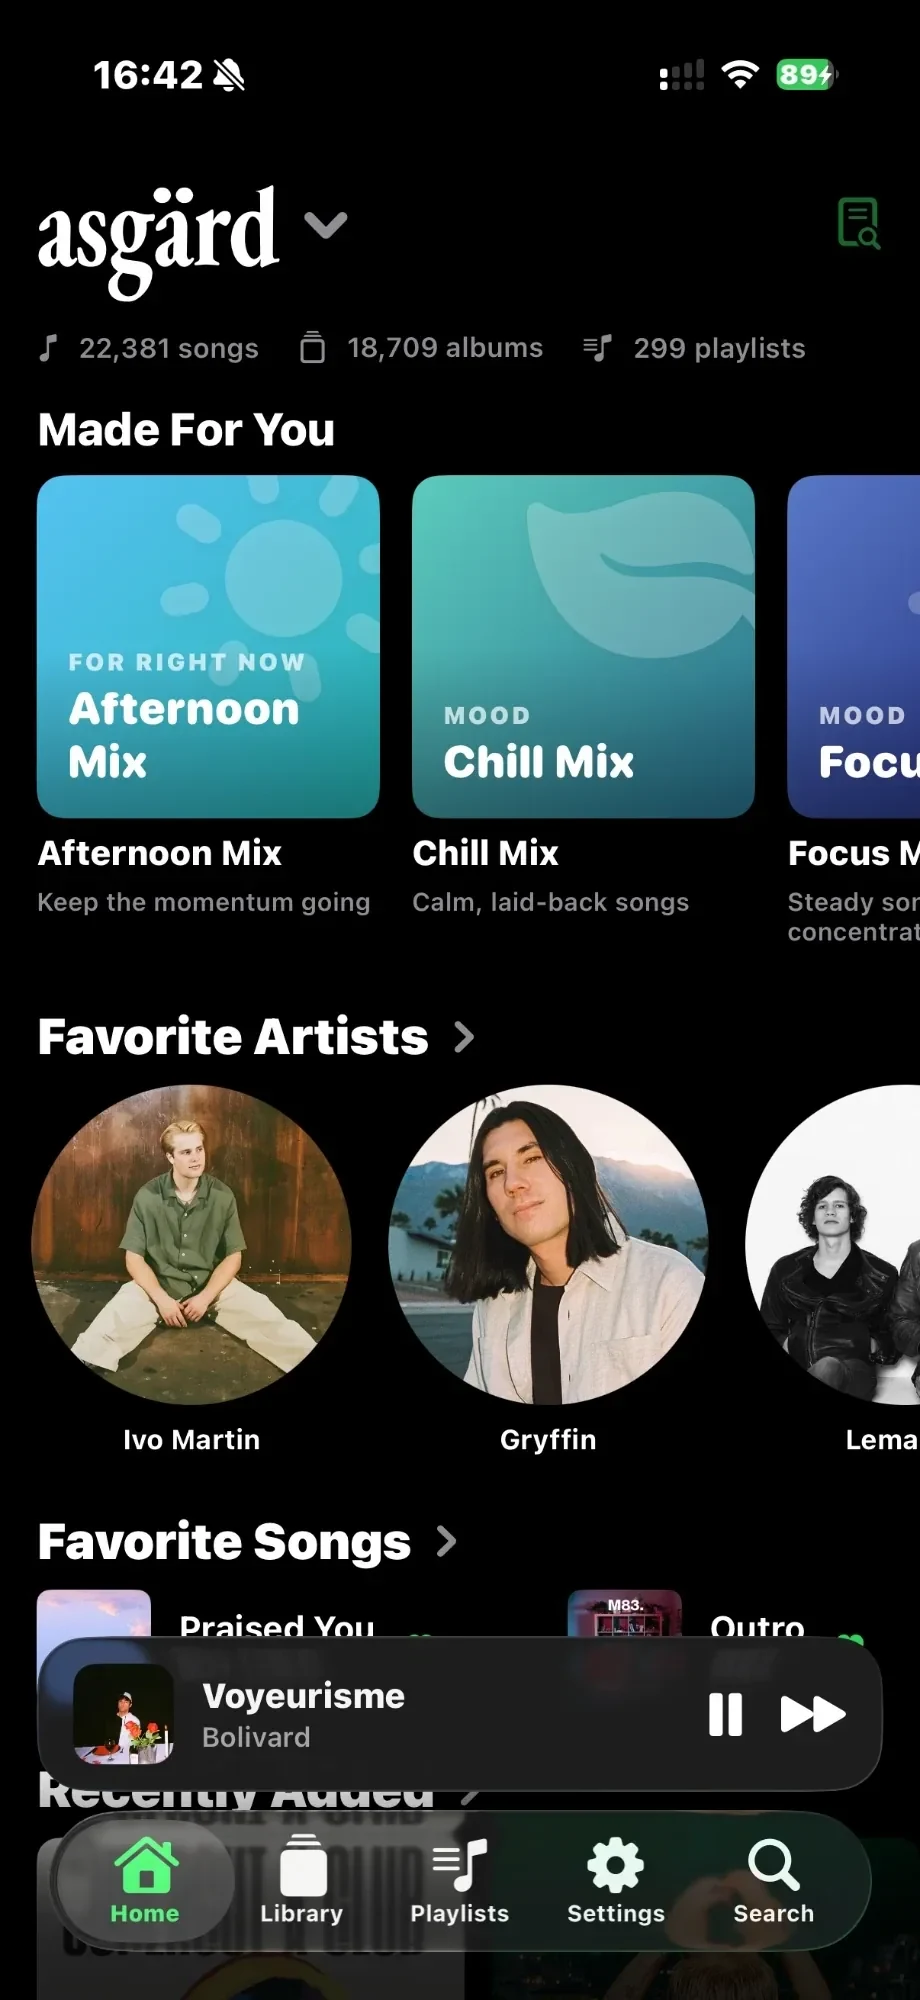
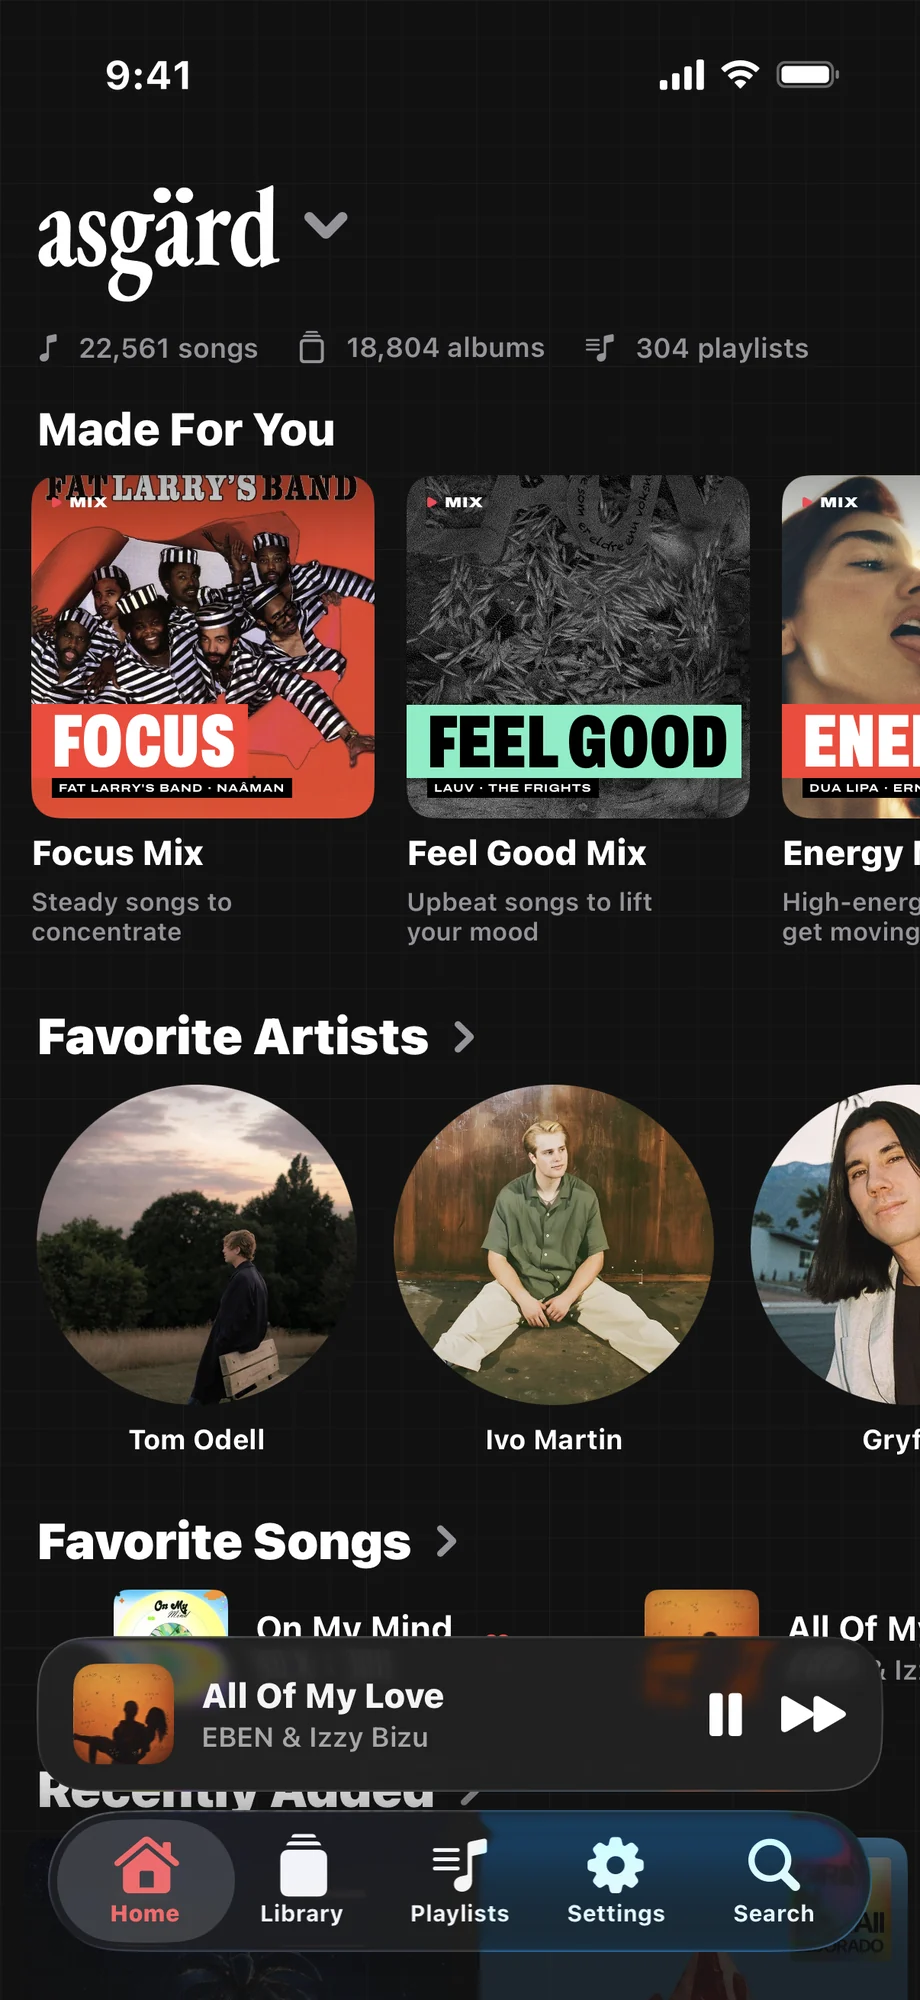
docs: the README, roadmap and privacy policy describe the app as it is now — playlist filters, the equalizer curve, Radar previews, Siri favourites, CarPlay's Now Playing and the sideload build's Get It — with new Home and Now Playing screenshots

diff --git a/site/privacy.html b/site/privacy.html
@@ -59,7 +59,7 @@
 <main>
   <header>
     <h1>Aura Privacy Policy</h1>
-    <p class="muted"><strong>Last updated:</strong> 2026-09-25 &nbsp;·&nbsp; <strong>Effective:</strong> same as above</p>
+    <p class="muted"><strong>Last updated:</strong> 2026-09-26 &nbsp;·&nbsp; <strong>Effective:</strong> same as above</p>
   </header>
 
   <p>Aura (“the app”) is a music playback client for Subsonic-API-compatible servers (Navidrome, Airsonic, Gonic, and others) that <strong>you</strong> host or have legitimate access to. This policy explains what information Aura handles and what it does not.</p>
@@ -87,7 +87,7 @@
   <ul>
     <li>Server URL(s) and usernames</li>
     <li>UI preferences (theme, accent color, home dashboard layout, etc.)</li>
-    <li>Playback preferences (EQ curve, crossfade, transcoding)</li>
+    <li>Playback preferences (EQ curve, ReplayGain, transcoding)</li>
     <li>Last-played state (queue, current track, position)</li>
     <li>Download quality settings</li>
   </ul>
@@ -120,7 +120,7 @@
     <li><strong>Deezer API</strong> — <code>api.deezer.com</code></li>
   </ul>
   <p>The share sheet can also offer a song.link address, which Aura builds from the Apple track ID it found; Aura does not contact song.link itself.</p>
-  <p>This lookup runs when a song starts playing (so the links are ready instantly) and the result is cached. No account, device identifier, or audio is sent — only the track name to find matching links — and none of it goes to a developer-owned server.</p>
+  <p>This lookup runs when a track appears in Now Playing (so the links are ready instantly) and the result is cached. No account, device identifier, or audio is sent — only the track name to find matching links — and none of it goes to a developer-owned server.</p>
 
   <h3>To Deezer (artist photos and Release Radar)</h3>
   <p>To put an artist's photo on a “Made For You” mix or radio cover, Aura looks the artist up in Deezer's public, free, keyless catalogue (<code>api.deezer.com</code>) and downloads the photo from Deezer's image servers. Only the <strong>artist's name</strong> is sent — no account, device identifier, or listening history. Each photo is fetched once and kept in the app's cache.</p>
@@ -155,15 +155,15 @@
 
   <h2>Contact</h2>
   <ul>
-    <li><strong>Issues / general questions:</strong> <a href="https://github.com/adrbn/aura/issues">GitHub issues</a></li>
-    <li><strong>Privacy-specific questions:</strong> <a href="https://github.com/adrbn/aura/issues">open a GitHub issue</a>.</li>
+    <li><strong>Issues / general questions:</strong> <a href="https://github.com/adrbn/aura-site/issues">GitHub issues</a></li>
+    <li><strong>Privacy-specific questions:</strong> <a href="https://github.com/adrbn/aura-site/issues">open a GitHub issue</a>.</li>
   </ul>
 
   <h2>Jurisdiction</h2>
   <p>Aura is a free/open-source project published from France. EU/GDPR applies by default. Under GDPR Articles 15–22 you have rights to access, rectification, erasure, restriction, portability, and objection — however, because Aura holds no personal data about you on any server we control, there is generally nothing to exercise those rights against. If you believe otherwise, contact us via the links above.</p>
 
   <footer>
-    <p class="muted">Aura is not affiliated with Navidrome, Subsonic, or Apple. Source: <a href="https://github.com/adrbn/aura">github.com/adrbn/aura</a></p>
+    <p class="muted">Aura is not affiliated with Navidrome, Subsonic, or Apple. Contact: <a href="https://github.com/adrbn/aura-site/issues">github.com/adrbn/aura-site/issues</a></p>
   </footer>
 </main>
 </body>

diff --git a/README.md b/README.md
@@ -21,7 +21,7 @@ Lossless streaming, lyrics that light up word by word, a real equalizer — and 
 
 <br/>
 
-<img src="docs/assets/home.webp" width="300" alt="Aura's Home: the server's name as the title, the library's counts beneath it, a row of generated Made For You mixes, then favourite artists as circular portraits and favourite songs, with the now-playing bar floating above the tab bar" />
+<img src="docs/assets/home.webp" width="300" alt="Aura's Home on a faint cutting-mat grid: the server's name as the title, the library's counts beneath it, a row of Made For You mixes with editorial covers — a photo of the artist under a bold title band — then favourite artists as circular portraits and favourite songs, with the now-playing bar floating above the tab bar" />
 
 </div>
 
@@ -37,15 +37,15 @@ Aura is built to that bar, on top of your server. It talks plain Subsonic API, i
 
 ## Playing
 
-<img src="docs/assets/now-playing.webp" width="300" align="right" alt="Now Playing: large square artwork, title and artist, a scrubber, shuffle and repeat, and a row of controls for lyrics, Instant Mix, the queue, the sleep timer, output device and sharing" />
+<img src="docs/assets/now-playing.webp" width="300" align="right" alt="Now Playing on a background drawn from the cover: large square artwork, title and artist, a favourite heart, a scrubber, shuffle and repeat, and a row of controls for lyrics, Instant Mix, the queue, the sleep timer, the output device and sharing" />
 
 Stream your files as they are — FLAC and ALAC stay lossless — or let Aura transcode on the way out when you're on cellular. Formats iOS can't open (OGG, Opus, WMA) are transcoded by the server automatically, so nothing in your library is unplayable.
 
-**A 5-band parametric equalizer** with 15 presets and a custom curve, **ReplayGain**, and a **sleep timer** that fades out rather than cutting.
+**A 5-band equalizer** you shape by dragging a curve, with 15 presets, **ReplayGain**, and a **sleep timer** that fades out rather than cutting.
 
 The queue is a real queue: play next, add to the end, drag to reorder, and an autoplay tail that keeps the music going when it runs out.
 
-Everything lands where iOS expects it — Lock Screen, Control Center, the Dynamic Island, CarPlay, AirPlay, the Share Sheet — and **Siri Shortcuts** cover play, pause, next, previous, shuffle, repeat, favourite, plus *"play &lt;playlist&gt;"* and *"play &lt;album&gt;"*.
+Everything lands where iOS expects it — Lock Screen, Control Center, the Dynamic Island, a Live Activity, AirPlay, the Share Sheet — and in the car, CarPlay's Now Playing screen, shuffle and repeat included. **Siri** covers play, pause, next, previous, shuffle, repeat and favourite, plus *"play &lt;playlist&gt;"*, *"play &lt;album&gt;"* and *"play my favourites"* — in English and in French (*« Joue mes favoris sur Aura »*), with the app closed.
 
 <br clear="right"/>
 
@@ -59,21 +59,21 @@ Each word lights as it is sung. The lines around it fall away in size, blur and 
 
 <img src="docs/assets/made-for-you.webp" width="640" alt="Three generated mixes side by side — Afternoon, Chill and Focus — each with an editorial cover: the most-played artist's photo, or their album art, under a bold title band in the mix's colour, with the mix's artists listed beneath" />
 
-**Instant Mix** builds a station from any song or artist. Above it, Aura generates mixes from what's actually in your library — by genre, by mood, by time of day — and a **Year Wrapped** retrospective from what you really played, counted on the device.
+**Instant Mix** builds a radio from any song or artist. Above it, Aura generates mixes from what's actually in your library — by genre, by mood, by time of day — and a **Year Wrapped** retrospective from what you really played, counted on the device.
 
-**Radar** gathers what the artists you play most released in the last 30 days. The releases already on your server play as a mix; the rest are listed beneath it, a tap away from Deezer — or, in the sideload build, from a Soulseek search. Add one to your server and it joins the mix within the hour.
+**Radar** gathers what the artists you play most released in the last 30 days, newest first. What your server already has plays whole; what it doesn't plays as thirty-second previews, so you can hear a release before you decide you want it. Each release opens its own page, songs the server holds marked. Add one to your server and it joins the mix within a quarter of an hour — a release you have only part of stays listed, with how many songs are left to get.
 
-Each mix gets an **editorial cover**, the way a streaming service would design one: the photo of the artist you play most in it, framed on the face with Apple Vision, under a type-set title — a duotone for genre mixes, a figure cut out over the year for Wrapped, and for a radio the seed artist between two of the artists it found around them.
+Each mix gets an **editorial cover**, the way a streaming service would design one: the photo of the artist you play most in it, framed on the face with Apple Vision, under a type-set title — a duotone for genre mixes, a figure cut out over the year for Wrapped, and for a radio the seed artist in a disc sending out rings, with two of the artists it found riding the first one. Save a radio or a mix as a playlist and the cover goes with it, onto your server.
 
 ## Your library, the way you left it
 
-<img src="docs/assets/playlists.webp" width="300" align="right" alt="The Playlists tab: a grid of playlists with photographic custom covers, each marked with a download badge, above a search field" />
+<img src="docs/assets/playlists.webp" width="300" align="right" alt="The Playlists tab: a grid of playlists with photographic custom covers, each marked with a download badge, under a search field" />
 
-Unified search across songs, albums, artists and playlists, ranked so the thing you typed comes first — with a Recently Searched list that remembers what you *played*, not everything you tapped.
+Unified search across songs, albums, artists and playlists, ranked so the thing you typed comes first — with a Recently Searched list that remembers what you *played*, not everything you tapped. With the Radar on, it also shows what your server doesn't have yet, with previews.
 
 Album, playlist, mix and radio pages open in the colour of their artwork, fading into the page as you scroll; artist pages frame the photo on the face instead of cropping at the forehead.
 
-Custom playlist covers, an A–Z rail for scrolling long lists, content-based duplicate detection, multi-folder Navidrome libraries, and **several servers** you can switch between from the Home title.
+Playlists as a grid of covers or a list, narrowed in a tap to the pinned ones, the saved radios, the mixes, yours, the shared ones or the downloaded ones. Custom playlist covers, an A–Z rail for scrolling long lists, content-based duplicate detection, multi-folder Navidrome libraries, and **several servers** you can switch between from the Home title.
 
 <br clear="right"/>
 
@@ -85,22 +85,22 @@ When the server is simply unreachable, Aura says so and falls back to what it ho
 
 ## The equalizer
 
-<img src="docs/assets/eq.webp" width="240" align="right" alt="The equalizer sheet: preset chips for Jazz, Electronic, Classical and Hip-Hop, and five vertical sliders from 60 Hz to 14 kHz with their gains in decibels" />
+<img src="docs/assets/eq.webp" width="240" align="right" alt="The equalizer sheet: a smooth response curve through five draggable points over a decibel grid, each band's frequency and gain beneath it, and a grid of preset capsules" />
 
-Five bands, 15 presets, and a curve you can drag. It runs in the audio graph, not as a gimmick — the gain is applied to the stream itself and survives backgrounding, AirPlay and CarPlay.
+Five bands from 60 Hz to 14 kHz, drawn as one curve over a decibel grid: drag anywhere on it and the nearest band follows. Fifteen presets sit beneath, and the curve glides to each one. It runs in the audio graph, not as a gimmick — the gain is applied to the stream itself and survives backgrounding, AirPlay and CarPlay.
 
 <br clear="right"/>
 
 ## Private by design
 
 - **Your credentials live in the Keychain**, never in preferences or a file, and never leave the device except to your own server.
-- **No account, no analytics, no telemetry.** Aura talks to your server, to LRCLIB when a song has no lyrics of its own or names a version whose lyrics need checking, and to Deezer's public catalogue for the artist photos on mix covers and the Radar's new releases — sending artist names, nothing else. The Radar can be switched off.
+- **No account, no analytics, no telemetry.** Aura talks to your server; to LRCLIB when a song has no lyrics of its own or names a version whose lyrics need checking; to Deezer's public catalogue for the artist photos on mix covers, the Radar's new releases and their previews — artist names and release ids, never your library; and to Apple's and Deezer's public search when you share a song, to find it on other services. Switch the Radar off and Deezer hears only about cover photos and the songs you share. The details are in the [privacy policy](PRIVACY.md).
 - **Play counts and history stay on the device** unless you point Aura at your own scrobbler.
 - **Open source**, so none of this has to be taken on trust.
 
 ## Install
 
-1. **Download the IPA** from [Releases](https://github.com/adrbn/aura/releases) and install it with AltStore or SideStore. *(App Store: in review.)*
+1. **Download the IPA** from [Releases](https://github.com/adrbn/aura/releases) and install it with AltStore or SideStore. *(An App Store release is on its way.)*
 2. Open Aura and enter your server's address, username and password.
 3. That's it — no account to create, nothing to configure.
 
@@ -113,6 +113,10 @@ open Aura/Aura.xcodeproj   # Xcode 26+, iOS 26 target — run the "Aura" scheme
 ```
 
 Two configurations ship: the App Store build, and a sideload build that additionally bundles an optional Soulseek/slskd integration, compiled out of the App Store version.
+
+### What the sideload build adds
+
+If you run [slskd](https://github.com/slskd/slskd) next to your server, the sideload build can fetch what you're missing. **Get It** on a Radar release, on a song found in Search, or the heart on a preview in Now Playing: Aura picks the copy with the most of the release's tracks, in the best quality, from a peer with a free slot, moves on if a download stalls, and waits for your server to add it. A card above the mini player and a Live Activity follow each step — looking, downloading, adding, ready — and a liked song is starred once it lands. You point it at your own slskd; nothing goes through anyone else's.
 
 ## Compatibility
 

diff --git a/site/README.md b/site/README.md
@@ -1,42 +1,11 @@
-# Aura site — privacy policy hosting
+# Aura site
 
-This folder hosts the **privacy policy page** required by the App Store. It is
-deliberately **separate from the app source repo** so you can publish it now,
-without publishing the (still-unfinished) app source — the source repo still has
-the trial font embedded and `TODO-` placeholders.
+The website lives in its own public repository, [adrbn/aura-site](https://github.com/adrbn/aura-site):
+the landing page and the privacy policy, plain HTML with no build step.
 
-`privacy.html` is **ready to deploy as-is** — GitHub user `adrbn` is filled in and
-the contact routes through GitHub issues. (Optional later: add a dedicated contact
-email by editing the "Contact" section in one place.)
+- **Landing page:** <https://getauraios.vercel.app> (Vercel, from `main`)
+- **Privacy policy:** <https://adrbn.github.io/aura-site/privacy.html> (GitHub Pages, from `main`) —
+  the URL registered in App Store Connect. Keep that path working, or change App Store Connect first.
 
-## Deploy to GitHub Pages (dedicated repo)
-
-```bash
-# 1. Create a new PUBLIC repo on GitHub named  aura-site
-# 2. From the repo root:
-cd site
-git init
-git add privacy.html
-git commit -m "chore: privacy policy"
-git branch -M main
-git remote add origin https://github.com/adrbn/aura-site.git
-git push -u origin main
-```
-
-Then on GitHub: **Settings → Pages → Source: `main` / root → Save.**
-
-Your live URL (paste into App Store Connect → Privacy Policy URL):
-
-```
-https://adrbn.github.io/aura-site/privacy.html
-```
-
-> Optional nicety: rename `privacy.html` → `index.html` to get a clean
-> `https://adrbn.github.io/aura-site/` URL, or add a landing page as `index.html`
-> and keep `privacy.html` alongside.
-
-## Custom domain (optional)
-
-If you register a domain (e.g. `aura-music.app`), add a `CNAME` file in this
-folder containing the domain, point DNS at GitHub Pages, and your URL becomes
-`https://aura-music.app/privacy.html`.
+`privacy.html` here is a copy of the published page, kept in step with [`PRIVACY.md`](../PRIVACY.md).
+When the policy changes, edit `PRIVACY.md`, then the page in `aura-site`, then copy it back here.

diff --git a/CHANGELOG.md b/CHANGELOG.md
@@ -49,7 +49,7 @@ Format is based on [Keep a Changelog](https://keepachangelog.com/en/1.1.0/); ver
 - Siri: "Play my favourites in Aura" — « Joue mes favoris sur Aura » — shuffles your favourite songs, with the app closed
 
 ### Changed — Appearance
-- The page's colour rises behind the tab bar and the mini player: over a bright cover the system's tab bar read lighter than the mini player, the one glass Aura draws itself — and the system's takes no tint
+- The page's colour rises behind the tab bar and the mini player: over a bright cover the system's tab bar read lighter than the mini player, the one glass Aura draws itself — and the system's takes no tint. It is eased from the foot of the screen, so it thickens behind the bars without drawing a band above the mini player
 - With the keyboard up, the mini player and the download and fetch cards stay where they are behind it, hidden, instead of riding up over the results
 - Every page's list ends above the mini player and the fetch card: a radio's songs, the genres, a genre's songs, the artists, the "see all" lists, the settings pages, About and Wrapped no longer end underneath them, and the A–Z index keeps its last letters clear of the card
 - Home's canvas carries a faint cutting-mat grid — hairlines every 16 points, a firmer one every fifth

diff --git a/PRIVACY.md b/PRIVACY.md
@@ -5,7 +5,7 @@ description: How Aura handles your data. Short version — it doesn't leave your
 
 # Aura Privacy Policy
 
-**Last updated:** 2026-09-25
+**Last updated:** 2026-09-26
 **Effective date:** same as above
 
 Aura ("the app") is a music playback client for Subsonic-API-compatible servers (Navidrome, Airsonic, Gonic, and others) that **you** host or have legitimate access to. This policy explains what information Aura handles and what it does not.
@@ -67,7 +67,7 @@ So that the Share sheet can offer "open on Spotify / Apple Music / Deezer / YouT
 
 The share sheet can also offer a song.link address, which Aura builds from the Apple track ID it found; Aura does not contact song.link itself.
 
-This lookup runs when a song starts playing (so the links are ready instantly) and the result is cached. No account, device identifier, or audio is sent — only the track name to find matching links — and none of it goes to a developer-owned server.
+This lookup runs when a track appears in Now Playing (so the links are ready instantly) and the result is cached. No account, device identifier, or audio is sent — only the track name to find matching links — and none of it goes to a developer-owned server.
 
 ### To Deezer (artist photos and Release Radar)
 
